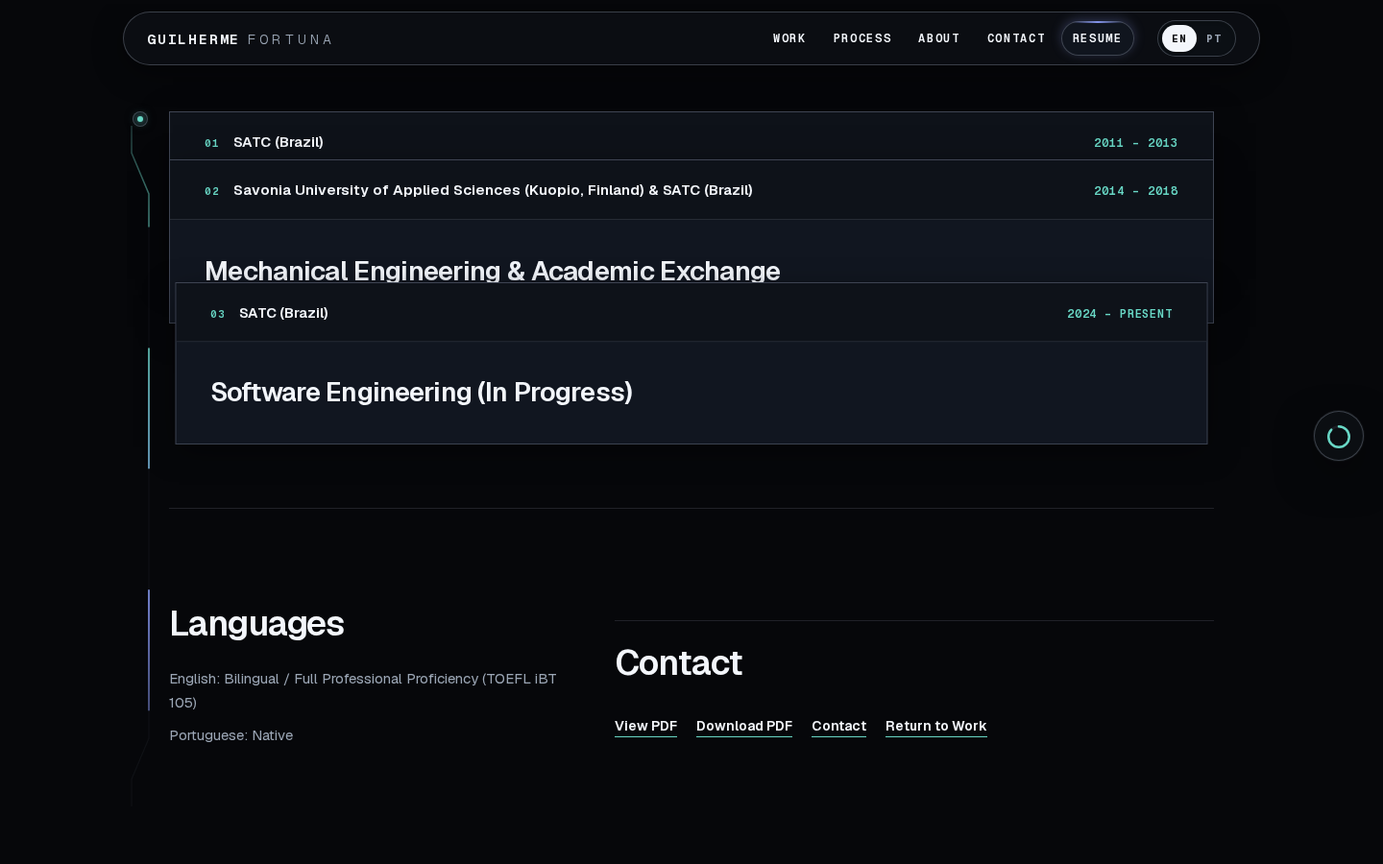
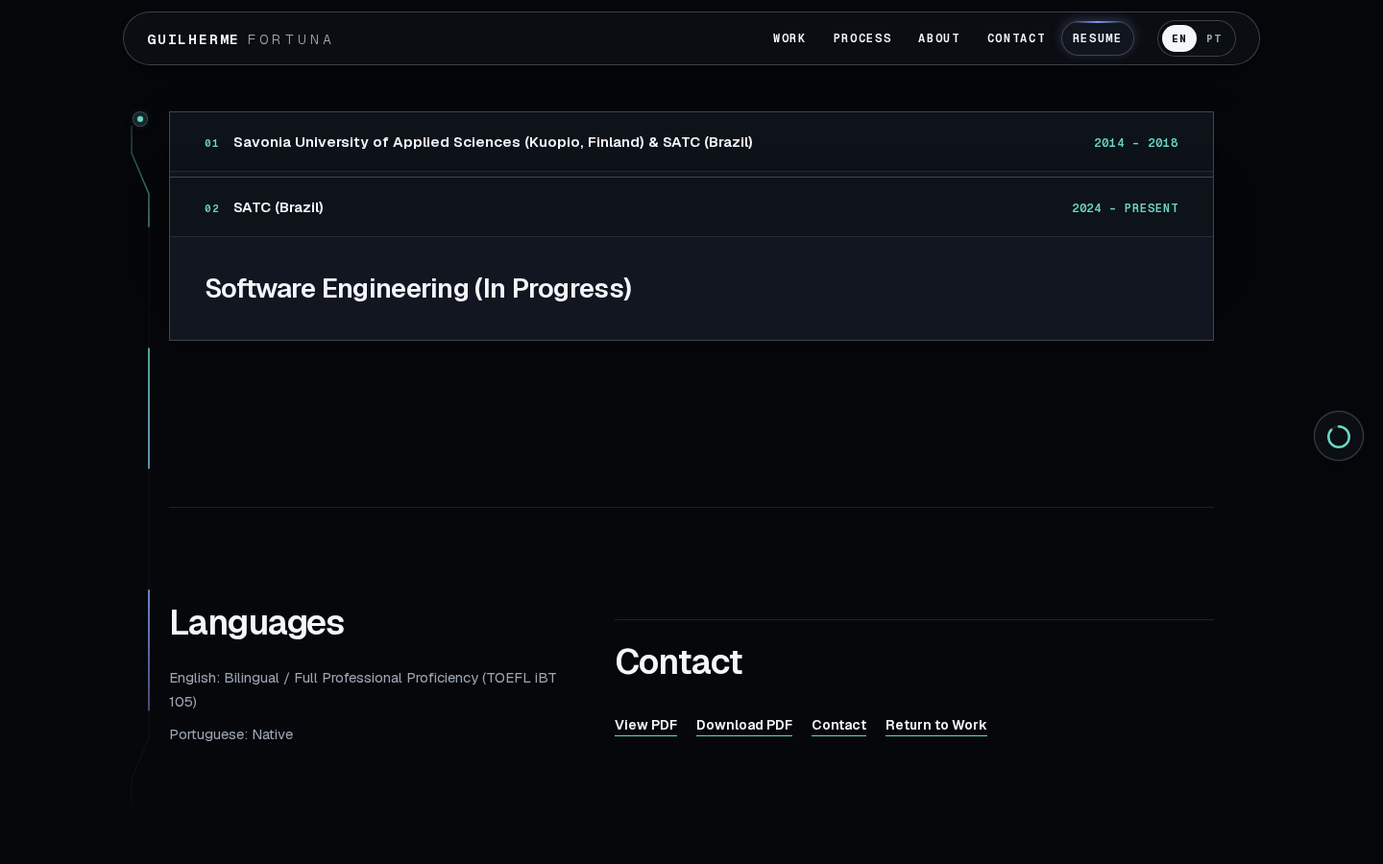
feat(resume): adapt credential card stack and verification captures to two entries

diff --git a/src/components/resume/__tests__/resume-credential-stack.test.tsx b/src/components/resume/__tests__/resume-credential-stack.test.tsx
@@ -122,13 +122,16 @@ describe("ResumeCredentialStack", () => {
     const { container } = renderStack();
     const section = container.querySelector("[data-resume-credential-stack]");
 
+    const resume = getResumeContent("en");
+    const expectedScales = resume.education.map(() => "1");
+
     expect(section).toHaveAttribute("data-motion-mode", "static");
     // In static mode before hydration, every card has scale 1
     expect(
       Array.from(container.querySelectorAll("[data-resume-credential-card]"), (card) =>
         card.getAttribute("data-stack-scale"),
       ),
-    ).toEqual(["1", "1", "1"]);
+    ).toEqual(expectedScales);
 
     await act(async () => {
       await new Promise((resolve) => window.setTimeout(resolve, 0));
@@ -140,7 +143,7 @@ describe("ResumeCredentialStack", () => {
       Array.from(container.querySelectorAll("[data-resume-credential-card]"), (card) =>
         card.getAttribute("data-stack-scale"),
       ),
-    ).toEqual(["1", "1", "1"]);
+    ).toEqual(expectedScales);
 
     expect(container.querySelector("[data-resume-credential-list]")).not.toHaveClass(
       "overflow-auto",
@@ -151,6 +154,8 @@ describe("ResumeCredentialStack", () => {
     prefersReducedMotion = true;
     enhancementEligible = true;
     const { container } = renderStack();
+    const resume = getResumeContent("en");
+    const expectedScales = resume.education.map(() => "1");
 
     await act(async () => {
       await new Promise((resolve) => window.setTimeout(resolve, 0));
@@ -164,6 +169,6 @@ describe("ResumeCredentialStack", () => {
       Array.from(container.querySelectorAll("[data-resume-credential-card]"), (card) =>
         card.getAttribute("data-stack-scale"),
       ),
-    ).toEqual(["1", "1", "1"]);
+    ).toEqual(expectedScales);
   });
 });

diff --git a/src/components/resume/resume-credential-stack.tsx b/src/components/resume/resume-credential-stack.tsx
@@ -105,11 +105,16 @@ function StaticCredentialList({
  * dips slightly during the mid-motion stacking transition as depth cue,
  * and returns to 1 when the card / stack settles.
  */
-function useCardStackScale(index: number, progress: MotionValue<number>): MotionValue<number> {
-  const start = 0.12 + index * 0.28;
-  const peak = start + 0.14;
-  const end = Math.min(0.95, start + 0.28);
-  const dip = index === 2 ? 0.985 : 0.97;
+function useCardStackScale(
+  index: number,
+  progress: MotionValue<number>,
+  total: number,
+): MotionValue<number> {
+  const step = 0.6 / Math.max(1, total);
+  const start = 0.12 + index * step;
+  const peak = start + step * 0.5;
+  const end = Math.min(0.95, start + step);
+  const dip = index === total - 1 ? 0.985 : 0.97;
 
   return useTransform(progress, [0, start, peak, end, 1], [1, 1, dip, 1, 1]);
 }
@@ -117,13 +122,15 @@ function useCardStackScale(index: number, progress: MotionValue<number>): Motion
 function EnhancedCredentialCard({
   entry,
   index,
+  total,
   progress,
 }: {
   entry: ResumeEducation;
   index: number;
+  total: number;
   progress: MotionValue<number>;
 }): ReactNode {
-  const scale = useCardStackScale(index, progress);
+  const scale = useCardStackScale(index, progress, total);
   const style = {
     "--resume-credential-index": index,
     scale,
@@ -167,6 +174,7 @@ function EnhancedCredentialList({
           key={`${entry.institution}-${entry.period}`}
           entry={entry}
           index={index}
+          total={entries.length}
           progress={scrollYProgress}
         />
       ))}

diff --git a/docs/work-orders/wo/WO-STATUS.md b/docs/work-orders/wo/WO-STATUS.md
@@ -270,7 +270,7 @@ owner-accepted and frozen. See `[BATCH-09-README.md](BATCH-09-README.md)`.
 | [WO-050](WO-050-resume-career-os-release-review.md)           | `BLOCKED` | WO-057 `DONE`, owner-accepted and frozen                                | Unassigned                                         | None                                                                     | Independently verify content/privacy, public-source provenance, runtime ownership, fallbacks, browser motion, accessibility, builds, and budgets; Re-pointed on 2026-09-10 to review the Batch 09 WO-057 freeze; Batch 08 and Batch 09 complete only on `GO`.                                                                                                                                                                                                                                                                                                                                                                                                                                                                                                                                                                                                                                                                                                                                                                                                                                                                                                                                                                                                                                                                                                                                                                                                                                                                                                                                                                                                                                                                                                                                                                                                                                                                                                                                                                                                                                                                                                                                                                                                                                                                                                                                                                                                                                                                                                                                                                                                                                                                                                                                                                                                                                                                                                                                                                                                                                                                                                                                                                                                                                                                                             |
 | [WO-051](WO-051-resume-refinement-audit-direction.md)         | `DONE`    | WO-049 `DONE`, owner-accepted and frozen                                | Unassigned                                         | `wo/wo-051-resume-refinement-audit-direction`                            | 14-item defect register (8 MAJOR, 6 MINOR) across both locales, four viewports, enhanced and reduced motion; see `[resume-refinement-decisions.md](../../design/resume-refinement-decisions.md)`. Owner approved directions for career cards (RD-001, full-bleed masthead), credential cards (RD-002, fan-stack card anatomy only), languages (RD-003, rated rows + badge), and Gemini convergence (RD-004, same source geometry, recolored only). Page rhythm (RD-005) is **deferred** — two directions plus a revision were all rejected as too generic; WO-056 needs a fresh proposal before it can start. Credential order content question answered: reorder chronologically (RD-006), pending a WO-040 amendment. No product code, manifest, or public asset changed.                                                                                                                                                                                                                                                                                                                                                                                                                                                                                                                                                                                                                                                                                                                                                                                                                                                                                                                                                                                                                                                                                                                                                                                                                                                                                                                                                                                                                                                                                                                                                                                                                                                                                                                                                                                                                                                                                                                                                                                                                                                                                                                                                                                                                                                                                                                                                                                                                                                                                                                                                                               |
 | [WO-052](WO-052-resume-career-card-redesign.md)               | `DONE`    | WO-051 `DONE` with career-card direction approved                       | Unassigned                                         | None                                                                     | Full-width, structured employer cards with live chapter state in enhanced and fallback modes.                                                                                                                                                                                                                                                                                                                                                                                                                                                                                                                                                                                                                                                                                                                                                                                                                                                                                                                                                                                                                                                                                                                                                                                                                                                                                                                                                                                                                                                                                                                                                                                                                                                                                                                                                                                                                                                                                                                                                                                                                                                                                                                                                                                                                                                                                                                                                                                                                                                                                                                                                                                                                                                                                                                                                                                                                                                                                                                                                                                                                                                                                                                                                                                                                                                             |
-| [WO-053](WO-053-resume-credential-card-redesign.md)           | `REVIEW`      | WO-052 `DONE`; credential direction and order decision approved         | Antigravity (WO-053 credential card redesign)      | `wo/wo-053-resume-credential-card-redesign`                              | Redesigned credential cards with header strip anatomy (index, institution, period), degree heading (h3), aligned rest state (scale: 1), legible stacking (offset: 4.25rem reveals header strip), responsive fallback, full test coverage, and captures under `docs/design/evidence/resume-refinement/wo-053/`; hand off for REVIEW |                                                                                                                                                                                                                                                                                                                                                                                                                                                                                                                                                                                                                                                               |
+| [WO-053](WO-053-resume-credential-card-redesign.md)           | `REVIEW`      | WO-052 `DONE`; credential direction and order decision approved         | Antigravity (WO-053 credential card redesign)      | `wo/wo-053-resume-credential-card-redesign`                              | Redesigned credential cards with header strip anatomy (index, institution, period), degree heading (h3), aligned rest state (scale: 1), legible stacking (offset: 4.25rem reveals header strip), responsive fallback, 2 chronological entries (electromechanics omitted per owner decision), full test coverage, and captures under `docs/design/evidence/resume-refinement/wo-053/`; hand off for REVIEW |                                                                                                                                                                                                                                                                                                                                                                                                                                                                                                                                                                                                                                                               |
 | [WO-054](WO-054-resume-languages-panel.md)                    | `BLOCKED` | WO-053 `DONE`                                                           | Unassigned                                         | None                                                                     | Structured language rows with visible level and credential; no invented proficiency measure.                                                                                                                                                                                                                                                                                                                                                                                                                                                                                                                                                                                                                                                                                                                                                                                                                                                                                                                                                                                                                                                                                                                                                                                                                                                                                                                                                                                                                                                                                                                                                                                                                                                                                                                                                                                                                                                                                                                                                                                                                                                                                                                                                                                                                                                                                                                                                                                                                                                                                                                                                                                                                                                                                                                                                                                                                                                                                                                                                                                                                                                                                                                                                                                                                                                              |
 | [WO-055](WO-055-resume-gemini-convergence.md)                 | `BLOCKED` | WO-054 `DONE`                                                           | Unassigned                                         | None                                                                     | Full-bleed Gemini paths converging on primary closing actions; progress-bound glow; static reduced-motion fallback.                                                                                                                                                                                                                                                                                                                                                                                                                                                                                                                                                                                                                                                                                                                                                                                                                                                                                                                                                                                                                                                                                                                                                                                                                                                                                                                                                                                                                                                                                                                                                                                                                                                                                                                                                                                                                                                                                                                                                                                                                                                                                                                                                                                                                                                                                                                                                                                                                                                                                                                                                                                                                                                                                                                                                                                                                                                                                                                                                                                                                                                                                                                                                                                                                                       |
 | [WO-056](WO-056-resume-page-rhythm.md)                        | `BLOCKED` | WO-055 `DONE`                                                           | Unassigned                                         | None                                                                     | One section-header system, spacing rhythm, continuous reading trace, anchored hero cluster, and remaining register items.                                                                                                                                                                                                                                                                                                                                                                                                                                                                                                                                                                                                                                                                                                                                                                                                                                                                                                                                                                                                                                                                                                                                                                                                                                                                                                                                                                                                                                                                                                                                                                                                                                                                                                                                                                                                                                                                                                                                                                                                                                                                                                                                                                                                                                                                                                                                                                                                                                                                                                                                                                                                                                                                                                                                                                                                                                                                                                                                                                                                                                                                                                                                                                                                                                 |

diff --git a/docs/component-provenance.md b/docs/component-provenance.md
@@ -55,7 +55,7 @@ before adapting or redistributing source.
 | Identity Scroll Choreography | https://21st.dev/@componentry/components/scroll-choreography | `src/components/resume/resume-identity-scene.tsx` | Shared Resume progress and CSS only; no source package or media dependency | Retains the source's staged convergence, but replaces its four-image composition with five restrained, content-derived data plates. The one semantic identity and its actions remain in normal flow from the server render; wide/tall fine-pointer viewports add only decorative assembly and settling. | Public source inspected 2026-09-08 from Componentry repository/registry; author Harsh Jadhav / componentry; repository MIT. The local implementation is a material adaptation with no copied demo media or factual copy. |
 | Capability Radial Orbital Timeline | https://21st.dev/@jatin-yadav05/components/radial-orbital-timeline | `src/components/resume/resume-capability-orbit.tsx` | CSS enhancement and native React controls only; no `lucide-react` dependency or animation timer | Retains six radial nodes, a center label, and selected-group emphasis while removing source status/energy/relationship fields, generic icons, continuous node rotation, and overlaid cards. Labels remain upright; the active skills occupy a stable detail column; narrow, short, reduced-motion, and no-JS modes keep the complete wrapping semantic list. | Public source/preview inspected 2026-09-08; author Jatin Yadav; MIT License declared. The local implementation is materially adapted to the existing Resume content and runtime. |
 | Career Horizontal Feature Reveal | https://21st.dev/@hyperiux/components/horizontal-feature-reveal | `src/components/resume/resume-career-reveal.tsx` | Existing scoped GSAP/ScrollTrigger bridge; no SplitText dependency | Adapts the vertical-to-horizontal editorial progression to two typed employer entries with an authored full-bleed masthead anatomy (WO-052, RD-001): card-integrated top progress bar driven by `data-active-career-index`, oversized organization masthead, right-aligned period meta row without redundant location duplication, and two-column highlights grid spanning the full card width with no dead half. Inactive card is visibly secondary (0.42 opacity). The single-column `ResumeTimeline` fallback shares the exact card anatomy and highlight breakdown. Exactly one accessible chronology is rendered at a time; enhanced track remains scoped and non-pinning so breakpoint fallback swaps cannot move React-owned nodes. | Re-verified 2026-09-08: public code/usage page, author Hyperiux Vault, GSAP dependency, and MIT License declared; immutable revision not exposed. Refinement updated 2026-09-10 (WO-052). |
-| Credential Stacking Cards | https://21st.dev/@danielpetho/components/stacking-cards | `src/components/resume/resume-credential-stack.tsx` | Existing Motion only; no image dependency | Adapted sticky/scale presentation to the three chronological education entries with structured header strip anatomy (WO-053, RD-002): index indicator, institution, and period in top header strip, prominent program title in body, equal width rest state with scale returning to 1, and sticky offset preserving visible covered header strips mid-stack; natural flow fallback for mobile and reduced motion; no new media or claims | Public source inspected 2026-09-08; author Daniel Petho; attribution retained for the implemented adaptation. Refinement updated 2026-09-10 (WO-053). |
+| Credential Stacking Cards | https://21st.dev/@danielpetho/components/stacking-cards | `src/components/resume/resume-credential-stack.tsx` | Existing Motion only; no image dependency | Adapted sticky/scale presentation to the chronological education entries with structured header strip anatomy (WO-053, RD-002): index indicator, institution, and period in top header strip, prominent program title in body, equal width rest state with scale returning to 1, and sticky offset preserving visible covered header strips mid-stack; natural flow fallback for mobile and reduced motion; no new media or claims | Public source inspected 2026-09-08; author Daniel Petho; attribution retained for the implemented adaptation. Refinement updated 2026-09-10 (WO-053). |
 | Dynamic Island TOC | https://21st.dev/@digitalzone0707/components/dynamic-island-toc | `src/components/resume/resume-chapter-navigation.tsx` | Existing Motion runtime and native anchors; no `lucide-react` dependency | Replaced auto-discovered headings and smooth-scroll ownership with an explicit five-chapter model after the owner-approved WO-048 project omission, native hash links, one `aria-current` destination, header-safe offsets, and document-flow mobile fallback | Public code/usage re-inspected 2026-09-08; author Digital Zone; license and immutable revision not exposed; source remains attributed and license limitation is retained |
 | Tracing Beam | https://ui.aceternity.com/components/tracing-beam | `src/components/resume/resume-scene-runtime.tsx` (`ResumeReadingTrace`) | Existing Motion runtime progress; no new runtime | Reduced to a token-based decorative SVG rail with shared progress, `aria-hidden`, pointer-inert behavior, and omitted mobile/static presentation; never semantic chronology | Free component page and props re-inspected 2026-09-08; Aceternity UI; license and immutable revision not exposed on page; source remains attributed and license limitation is retained |
 | Google Gemini Effect | https://ui.aceternity.com/components/google-gemini-effect | `src/components/resume/resume-convergence.tsx` | Existing Motion; no WebGL | Retain the source component's five 1440×890 irregular SVG paths, staggered MotionValue path-length ranges, zero-duration linear draw, and Gaussian-blurred duplicate layer; adapt only colors, placement after the existing Languages/Contact content, and copy (demo copy removed) | Public component and registry source re-inspected 2026-09-08; author Manu Arora / Aceternity UI; license and immutable revision not exposed on page; source remains attributed and license limitation is retained |
